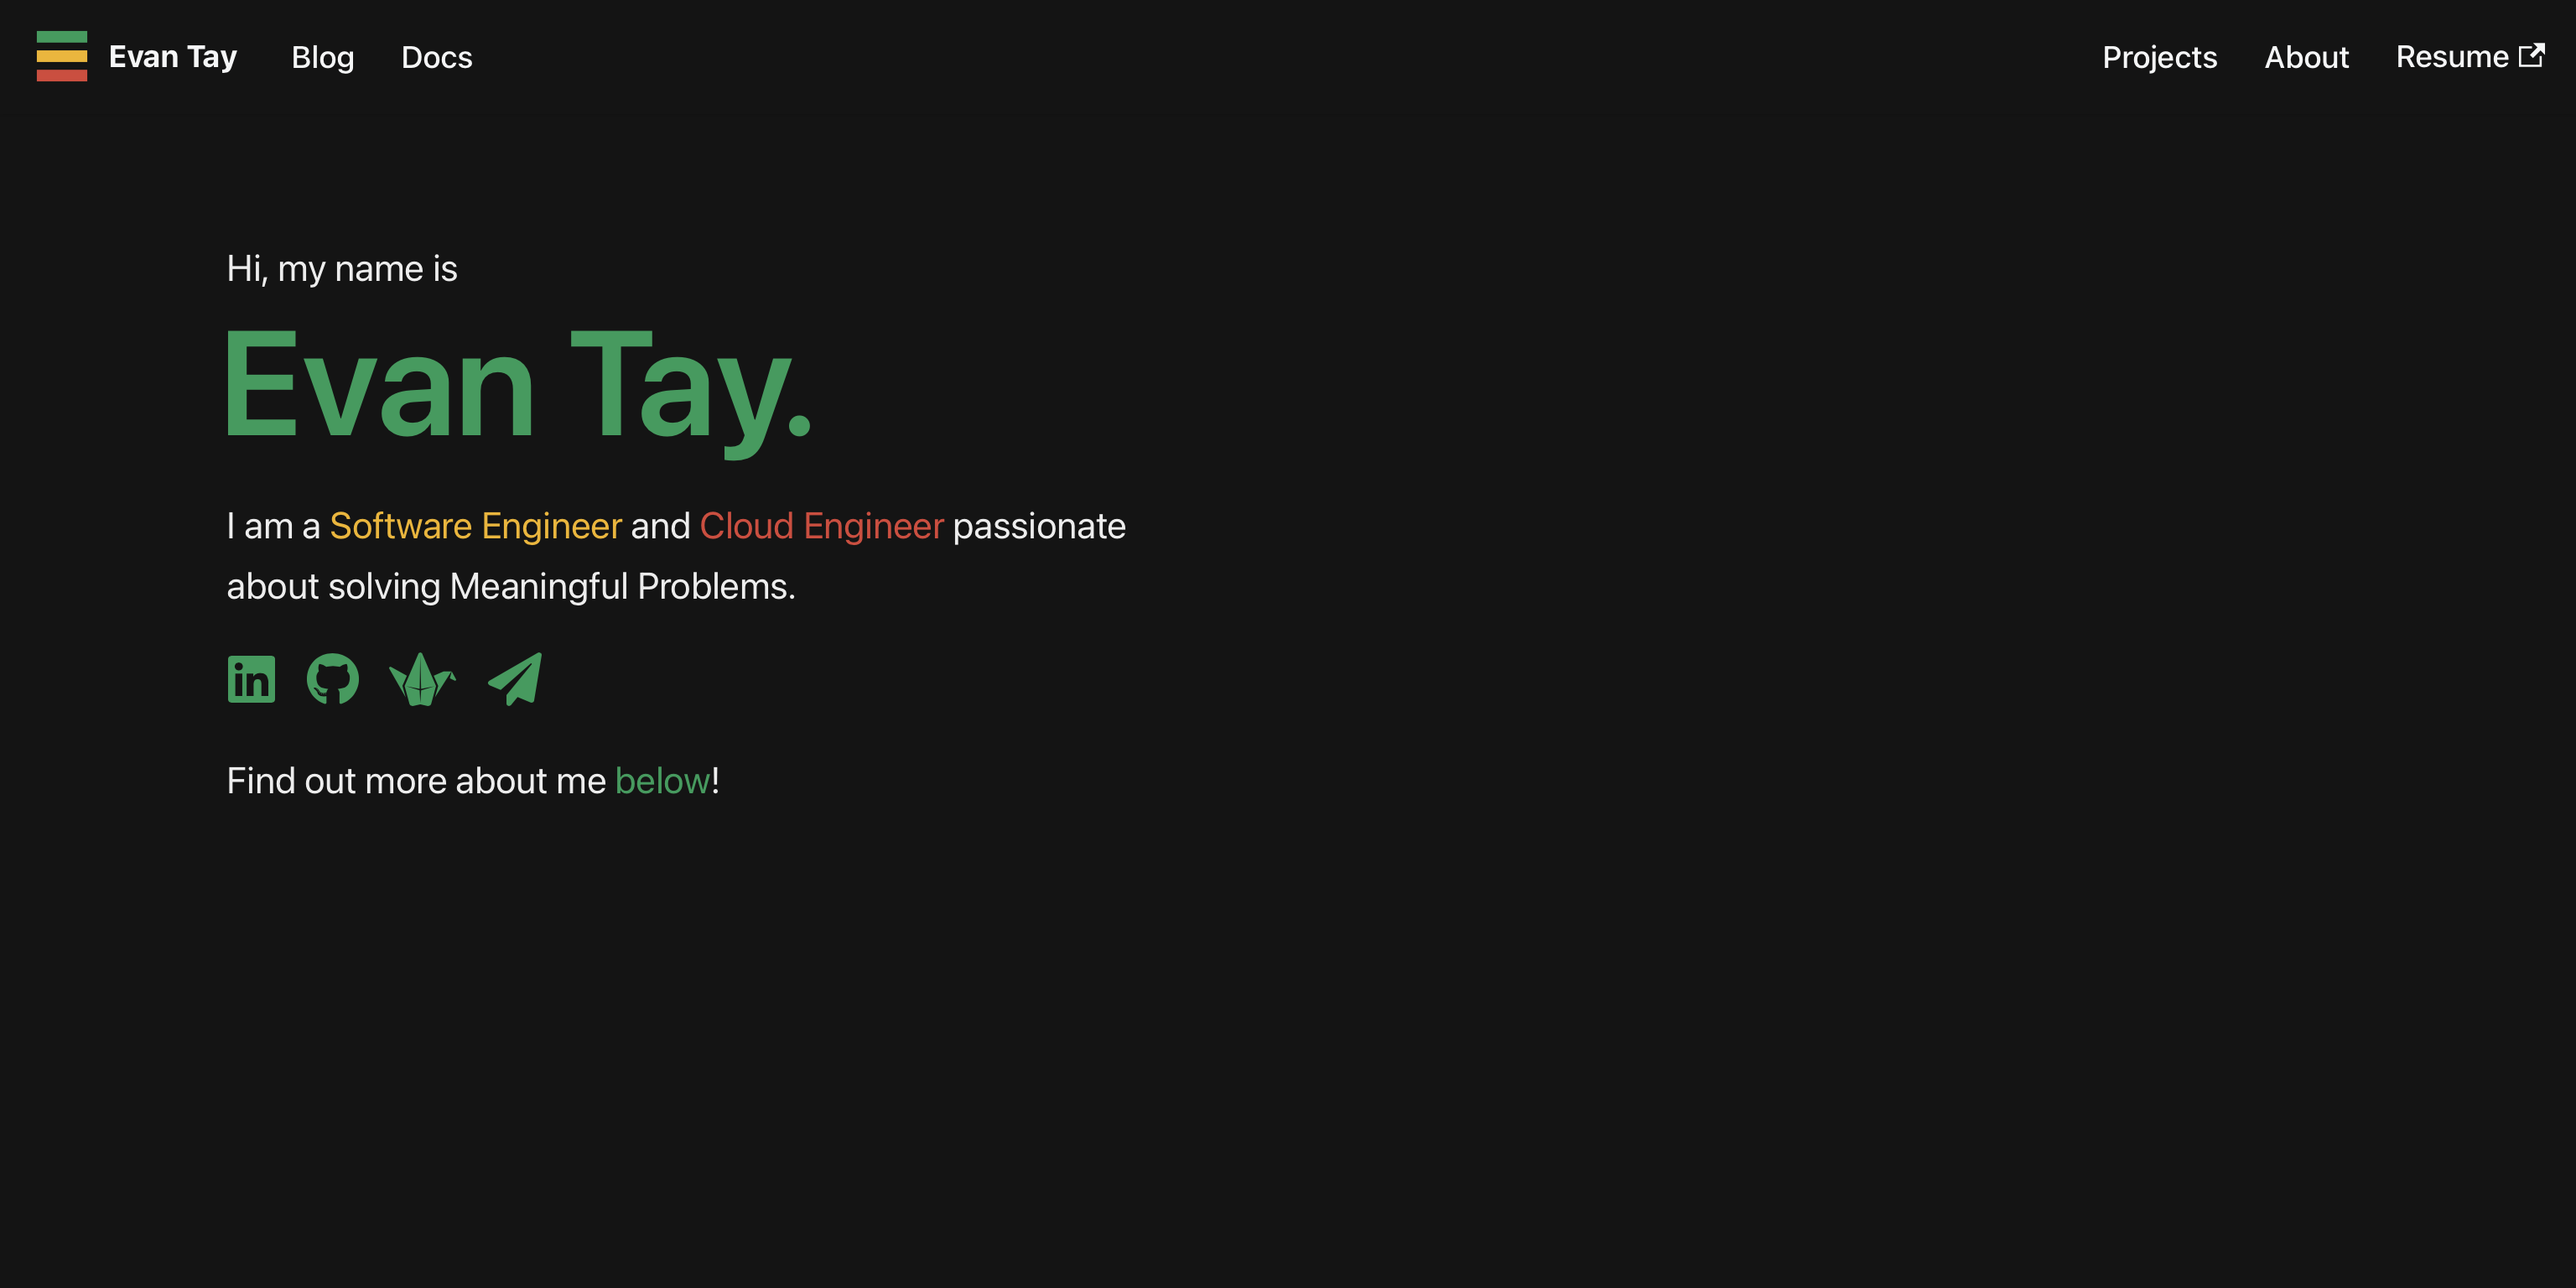
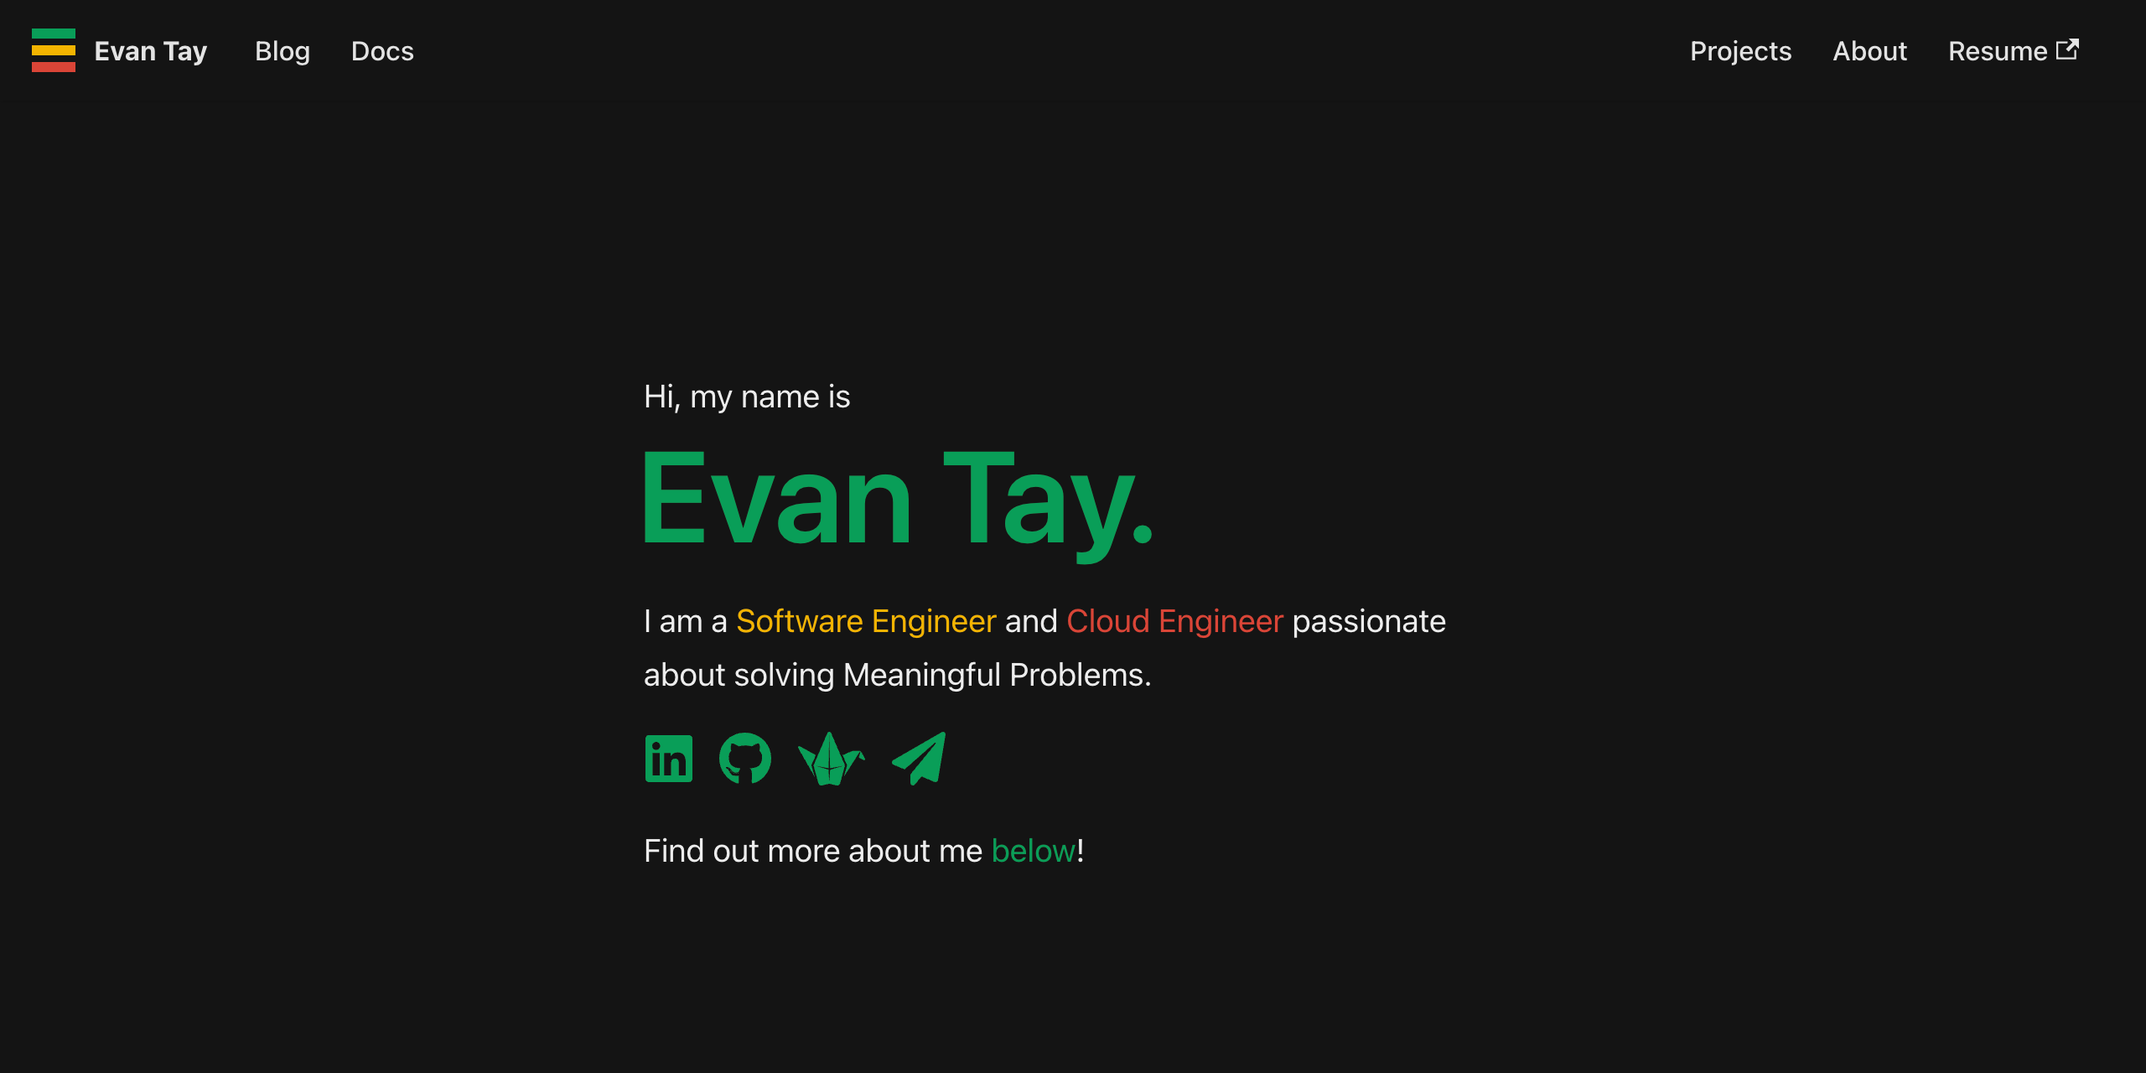
docs: update landing image
and remove other images

diff --git a/README.md b/README.md
@@ -12,9 +12,9 @@
   Previous version: <a href="https://github.com/DigiPie/evantay.com" target="_blank">evantay.com (1.0)</a>
 </p>
 
-![Landing page](img/landing.png)
+![Landing page](img/repository-open-graph-kaya-folio.png)
 
-![deploy-docusaurus](https://github.com/DigiPie/kaya-folio/workflows/deploy-docusaurus/badge.svg)
+![deploy-docusaurus](https://github.com/DigiPie/kaya-folio/workflows/deploy-docusaurus/badge.svg) ![evantay-website](https://img.shields.io/website?url=https%3A%2F%2Fevantay.com)
 
 ## Design motivation
 
@@ -38,11 +38,3 @@ As for the Landing, Projects and About pages, I built them using [ReactJS](https
 ## Can I use it
 
 I built this website for my own personal use, but you are free to use it so long as you credit me. You can do so by linking back to [evantay.com](https://evantay.com/). :relaxed:
-
-## Projects page
-
-![Projects page](img/project-1.png)
-
-![Projects page](img/project-2.png)
-
-![Projects page](img/project-3.png)
